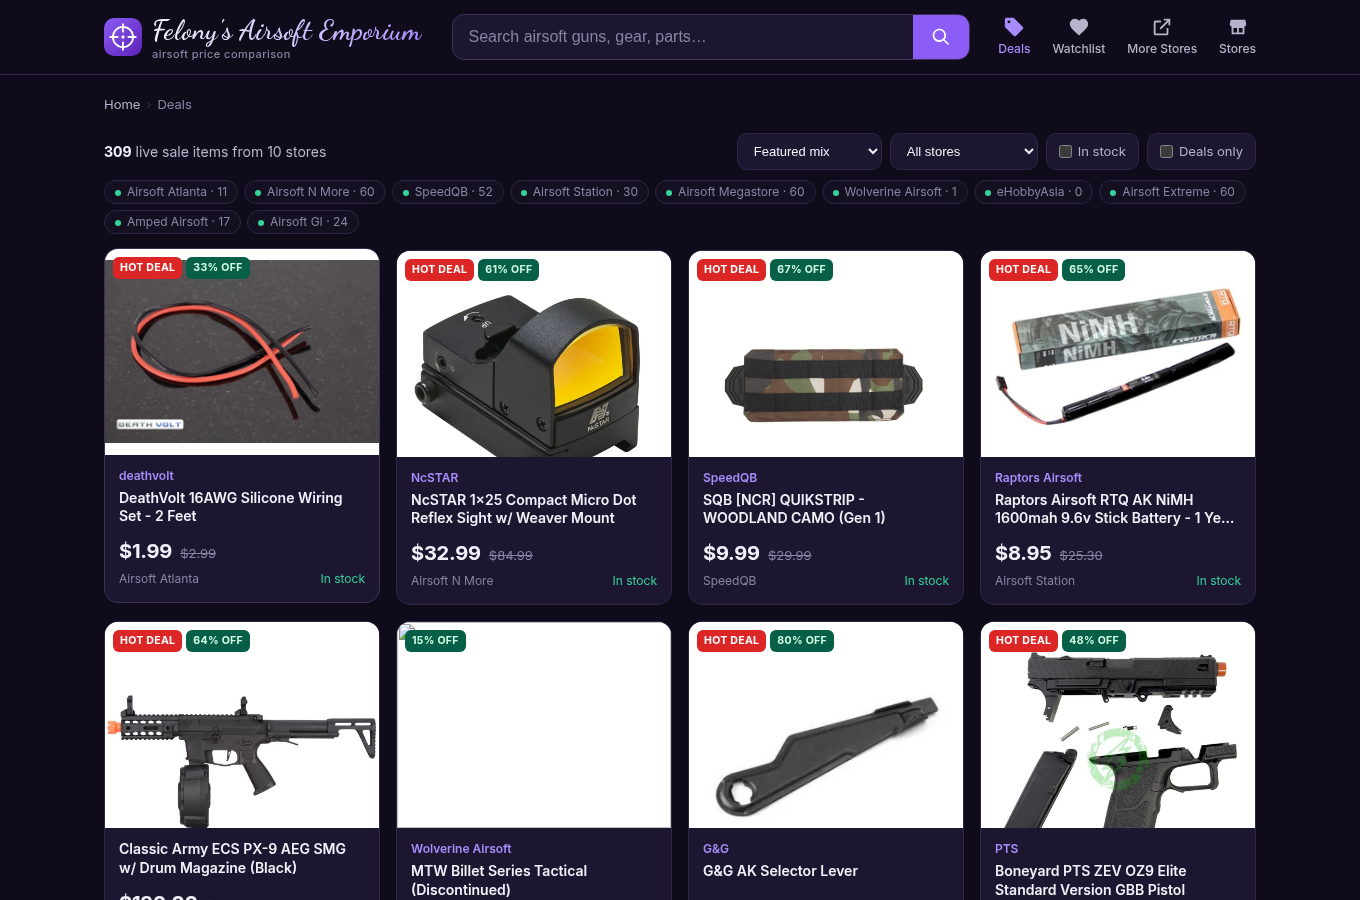
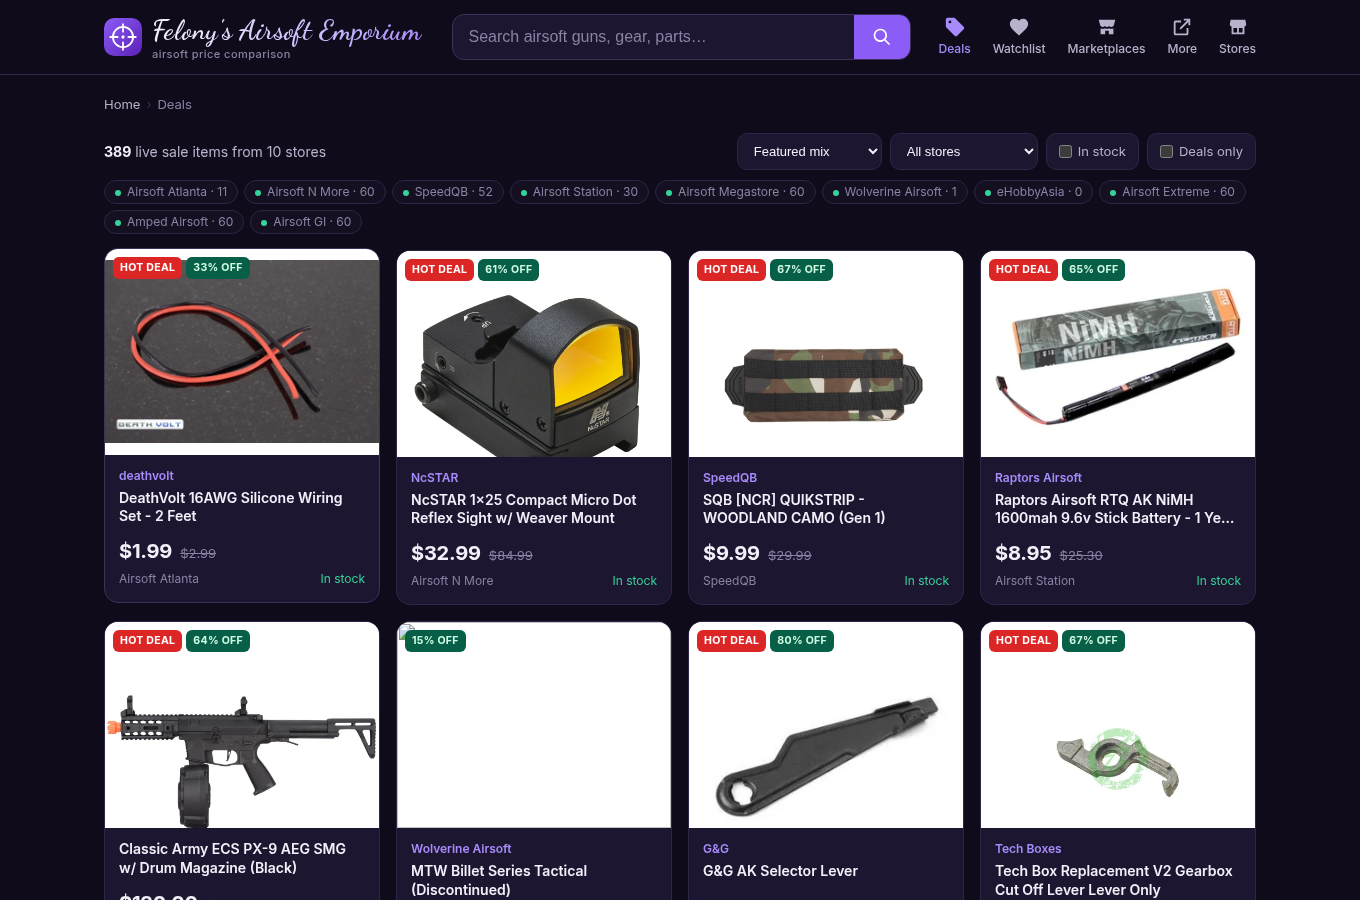
Add Marketplaces tab, separate used-listings search section, iOS bottom tab bar

diff --git a/public/app.js b/public/app.js
@@ -18,6 +18,12 @@ const STORE_INFO = {
   evike: { name: 'Evike.com', sub: 'California' },
   sniperas: { name: 'Sniper Airsoft', sub: 'Germany' },
   replicaairguns: { name: 'ReplicaAirguns', sub: 'Reviews' },
+  hopup: { name: 'HopUp', sub: 'Buy/sell app' },
+  ebay: { name: 'eBay Airsoft', sub: 'Auctions & BIN' },
+  gunbroker: { name: 'GunBroker', sub: 'Auctions' },
+  reddit: { name: 'r/airsoftmarket', sub: 'Reddit' },
+  fbmarket: { name: 'FB Marketplace', sub: 'Local' },
+  fbgroups: { name: 'FB Groups', sub: 'Buy/sell/trade' },
 };
 const wordmark = (id, name) => `<div class="wm wm-${esc(id)}">${esc(STORE_INFO[id]?.name || name)}<small>${esc(STORE_INFO[id]?.sub || '')}</small></div>`;
 
@@ -108,6 +114,8 @@ async function searchPage(q) {
     if (!S.search || S.search.query !== q) S.search = await api('/api/search?q=' + encodeURIComponent(q));
     const d = S.search, multi = d.groups.filter((g) => g.storeCount > 1).length, deals = d.groups.filter((g) => g.onSale).length;
     listView(d, { title: `<b>${d.groups.length}</b> products for <b>“${esc(q)}”</b> · ${multi} compared across stores · ${deals} deals`, crumb: [['Home', '#/'], [`Search “${q}”`]], defaultSort: 'relevance' });
+    app.insertAdjacentHTML('beforeend', `<section class="mkt-section" id="mkt"><div class="section-h"><h2>Used &amp; marketplace listings</h2><a href="#/marketplaces">About marketplaces →</a></div><p class="more-note">Kept separate from the new-retail comparison above. Prices from players and sellers vary by condition.</p><div id="mktBody"><div class="sk" style="height:90px"></div></div></section>`);
+    loadMarketplaceSection(q);
   } catch (e) { errorView(e); }
 }
 
@@ -182,7 +190,7 @@ async function homePage() {
   const chips = ['Tokyo Marui', 'Gas blowback', 'M4 AEG', 'Glock', 'Hi-Capa', 'Sniper rifle', 'Plate carrier', 'HPA', '0.28g BBs'];
   app.innerHTML = `<section class="hero"><h1>Find the <em>best price</em> on airsoft gear.</h1>
     <p>Felony&#39;s Airsoft Emporium checks 10 trusted airsoft retailers, matches the same product across stores, and flags real sales so you never overpay.</p>
-    <p class="hero-more"><a href="#/more">More stores we can't price-check →</a></p>
+    <p class="hero-more"><a href="#/marketplaces">Used gear marketplaces →</a> <span class="sep">·</span> <a href="#/more">More stores we can't price-check →</a></p>
     <div class="chips">${chips.map((c) => `<button class="chip" data-q="${esc(c)}">${esc(c)}</button>`).join('')}</div></section>
     <div class="section-h"><h2>Top deals right now</h2><a href="#/deals">See all deals →</a></div><div id="homeDeals">${skeletons(8)}</div>`;
   app.querySelectorAll('.chip').forEach((c) => c.addEventListener('click', () => (location.hash = '#/search?q=' + encodeURIComponent(c.dataset.q))));
@@ -219,6 +227,34 @@ async function storesPage() {
   } catch (e) { errorView(e); }
 }
 
+async function loadMarketplaceSection(q) {
+  try {
+    const m = await api('/api/marketplace-search?q=' + encodeURIComponent(q));
+    if (!$('#mktBody')) return;
+    const listings = m.listings.length ? `<div class="grid mkt-grid">${m.listings.map((l) => `<a class="pcard" href="${esc(l.url)}" target="_blank" rel="noopener noreferrer">
+        <div class="pimg">${l.image ? `<img loading="lazy" src="${esc(l.image)}" alt="">` : ''}<div class="tags">${l.condition ? `<span class="tag">${esc(l.condition.toUpperCase())}</span>` : ''}</div></div>
+        <div class="pbody"><div class="brandline">${esc(l.marketplace)} · ${esc(l.format)}</div><div class="ptitle">${esc(l.title)}</div>
+        <div class="pprice"><b>${money(l.price)}</b></div></div></a>`).join('')}</div>` : '';
+    $('#mktBody').innerHTML = listings + `<div class="mkt-links"><span>Search “${esc(q)}” on</span>${m.links.map((l) => `<a class="mkt-chip" href="${esc(l.url)}" target="_blank" rel="noopener noreferrer">${esc(l.name)} ↗</a>`).join('')}</div>`;
+  } catch (e) { if ($('#mktBody')) $('#mktBody').innerHTML = `<p class="more-note">${esc(e.message)}</p>`; }
+}
+
+async function marketplacesPage() {
+  $('#q').value = '';
+  app.innerHTML = crumbs([['Home', '#/'], ['Marketplaces']]) + skeletons(3);
+  try {
+    const d = await api('/api/marketplaces');
+    app.innerHTML = crumbs([['Home', '#/'], ['Marketplaces']]) + `
+      <div class="section-h" style="margin-top:0"><h2>Marketplaces</h2></div>
+      <p class="more-note">Used and third-party listings with sellers' own prices. They're kept out of the new-retail comparison. When you search, these show up in their own section with direct search links.</p>
+      <div class="stores">${d.marketplaces.map((m) => `<a class="scard more" href="${esc(m.url)}" target="_blank" rel="noopener noreferrer">
+        <div class="more-top">${wordmark(m.id, m.name)}<span class="ext" aria-hidden="true">↗</span></div>
+        <p class="domain">${esc(m.url.replace(/^https?:\/\/(www\.)?/, '').replace(/\/.*$/, ''))}${m.live ? ' <span class="live-pill">LIVE PRICES</span>' : ''}</p>
+        <p>${esc(m.note)}</p><p class="why">${esc(m.why)}</p></a>`).join('')}</div>
+      <p class="more-note" style="margin-top:18px">Buying used: check seller feedback, ask for a video of the gun firing, and pay with a protected method (PayPal Goods &amp; Services). Never pay with Friends &amp; Family.</p>`;
+  } catch (e) { errorView(e); }
+}
+
 async function moreStoresPage() {
   $('#q').value = '';
   app.innerHTML = crumbs([['Home', '#/'], ['More Stores']]) + skeletons(3);
@@ -248,6 +284,7 @@ function route() {
   if (h === '#/watchlist') return watchlistPage();
   if (h === '#/stores') return storesPage();
   if (h === '#/more') return moreStoresPage();
+  if (h === '#/marketplaces') return marketplacesPage();
   return homePage();
 }
 $('#searchForm').addEventListener('submit', (e) => { e.preventDefault(); const q = $('#q').value.trim(); if (q.length > 1) { $('#q').blur(); location.hash = '#/search?q=' + encodeURIComponent(q); } });

diff --git a/server/marketplaces.js b/server/marketplaces.js
@@ -1,0 +1,94 @@
+// Used / third-party airsoft marketplaces. These are kept apart from the new-retail price comparison.
+// None of them can be read automatically within their rules, so they're links (with a prefilled
+// search) unless an official API key is configured (eBay Browse API).
+const { UA } = require('./http');
+
+const enc = encodeURIComponent;
+const marketplaces = [
+  {
+    id: 'hopup', name: 'HopUp', url: 'https://www.hopupairsoft.com', note: 'The biggest US airsoft buy/sell app. New and used gear from players.',
+    search: (q) => `https://www.hopupairsoft.com/search?q=${enc(q)}`,
+    why: "Link only. HopUp's Terms of Use forbid crawling or scraping listings without written permission, even though robots.txt allows it.",
+  },
+  {
+    id: 'ebay', name: 'eBay Airsoft', url: 'https://www.ebay.com/sch/i.html?_sacat=31680', note: 'eBay airsoft category, new and used, auctions and Buy It Now.',
+    search: (q) => `https://www.ebay.com/sch/i.html?_nkw=${enc(q)}&_sacat=31680`,
+    why: "Link only unless an eBay Browse API key is configured. eBay blocks automated page requests (HTTP 403), and robots.txt disallows search pages. Its official API is the allowed route.",
+  },
+  {
+    id: 'gunbroker', name: 'GunBroker Airsoft', url: 'https://www.gunbroker.com', note: 'Auction site with an Airsoft category (Air Guns › Airsoft).',
+    search: (q) => `https://www.gunbroker.com/All/search?Keywords=${enc(q + ' airsoft')}`,
+    why: 'Link only. Every page, including robots.txt, sits behind a Cloudflare bot check (HTTP 403). GunBroker has an official API, but it needs an approved developer key.',
+  },
+  {
+    id: 'reddit', name: 'r/airsoftmarket', url: 'https://www.reddit.com/r/airsoftmarket/', note: 'Reddit buy/sell/trade community. Check seller feedback and use PayPal G&S.',
+    search: (q) => `https://www.reddit.com/r/airsoftmarket/search/?q=${enc(q)}&restrict_sr=1&sort=new`,
+    why: "Link only. Reddit's robots.txt disallows all crawling, and its Data API needs OAuth plus approval for commercial use.",
+  },
+  {
+    id: 'fbmarket', name: 'Facebook Marketplace', url: 'https://www.facebook.com/marketplace/', note: 'Local pickup listings. Needs a Facebook login.',
+    search: (q) => `https://www.facebook.com/marketplace/search/?query=${enc('airsoft ' + q)}`,
+    why: 'Link only. Requires a login and has no public listings API.',
+  },
+  {
+    id: 'fbgroups', name: 'Facebook airsoft groups', url: 'https://www.facebook.com/search/groups/?q=airsoft%20buy%20sell', note: 'Regional airsoft buy/sell/trade groups. Join one near you.',
+    search: () => 'https://www.facebook.com/search/groups/?q=airsoft%20buy%20sell',
+    why: 'Link only. Group posts need a login and there is no public API.',
+  },
+];
+
+// Optional: official eBay Browse API (free developer account at developer.ebay.com).
+// Set EBAY_CLIENT_ID and EBAY_CLIENT_SECRET on the server to show live eBay listings.
+let ebayToken = null;
+async function ebayAuth() {
+  if (ebayToken && ebayToken.exp > Date.now()) return ebayToken.value;
+  const basic = Buffer.from(`${process.env.EBAY_CLIENT_ID}:${process.env.EBAY_CLIENT_SECRET}`).toString('base64');
+  const r = await fetch('https://api.ebay.com/identity/v1/oauth2/token', {
+    method: 'POST',
+    headers: { Authorization: `Basic ${basic}`, 'Content-Type': 'application/x-www-form-urlencoded', 'User-Agent': UA },
+    body: 'grant_type=client_credentials&scope=' + enc('https://api.ebay.com/oauth/api_scope'),
+  });
+  if (!r.ok) throw new Error(`eBay auth HTTP ${r.status}`);
+  const j = await r.json();
+  ebayToken = { value: j.access_token, exp: Date.now() + (j.expires_in - 120) * 1000 };
+  return ebayToken.value;
+}
+const ebayCache = new Map();
+async function ebaySearch(q) {
+  const hit = ebayCache.get(q);
+  if (hit && hit.exp > Date.now()) return hit.val;
+  const token = await ebayAuth();
+  const r = await fetch(`https://api.ebay.com/buy/browse/v1/item_summary/search?q=${enc(q)}&category_ids=31680&limit=24`, {
+    headers: { Authorization: `Bearer ${token}`, 'X-EBAY-C-MARKETPLACE-ID': 'EBAY_US', 'User-Agent': UA },
+  });
+  if (!r.ok) throw new Error(`eBay search HTTP ${r.status}`);
+  const j = await r.json();
+  const val = (j.itemSummaries || []).map((it) => ({
+    marketplace: 'eBay', marketplaceId: 'ebay',
+    title: it.title,
+    price: it.price ? Number(it.price.value) : null,
+    currency: it.price?.currency || 'USD',
+    condition: it.condition || null,
+    format: (it.buyingOptions || []).includes('AUCTION') ? 'Auction' : 'Buy It Now',
+    image: it.image?.imageUrl || it.thumbnailImages?.[0]?.imageUrl || null,
+    url: it.itemAffiliateWebUrl || it.itemWebUrl,
+  })).filter((x) => x.price);
+  ebayCache.set(q, { val, exp: Date.now() + 10 * 60 * 1000 });
+  return val;
+}
+const ebayEnabled = () => !!(process.env.EBAY_CLIENT_ID && process.env.EBAY_CLIENT_SECRET);
+
+function list() {
+  return marketplaces.map(({ id, name, url, note, why }) => ({ id, name, url, note, why, live: id === 'ebay' && ebayEnabled() }));
+}
+
+async function searchMarketplaces(q) {
+  const links = marketplaces.map((m) => ({ id: m.id, name: m.name, url: m.search(q) }));
+  let listings = [], errors = [];
+  if (ebayEnabled()) {
+    try { listings = await ebaySearch(q); } catch (e) { errors.push({ id: 'ebay', error: String(e.message || e) }); }
+  }
+  return { query: q, links, listings, errors, liveSources: ebayEnabled() ? ['eBay'] : [] };
+}
+
+module.exports = { list, searchMarketplaces };

diff --git a/public/styles.css b/public/styles.css
@@ -160,3 +160,28 @@ select,.toggle{background:var(--card);color:var(--text);border:1px solid var(--l
 .wm-evike{color:#fb7185}.wm-sniperas{color:#93c5fd}.wm-replicaairguns{color:#d8b4fe}
 @media (max-width:430px){.actions{gap:14px}.action svg{width:23px;height:23px}}
 @media (max-width:360px){.actions{gap:10px}.action svg{width:21px;height:21px}}
+
+/* Marketplaces */
+.mkt-section{margin-top:34px;padding-top:6px;border-top:1px solid var(--line)}
+.mkt-links{display:flex;flex-wrap:wrap;gap:8px;align-items:center;margin-top:12px}
+.mkt-links span{color:var(--muted);font-size:13px;margin-right:2px}
+.mkt-chip{background:var(--card);border:1px solid var(--line2);color:var(--text);border-radius:999px;padding:7px 13px;font-size:13px;font-weight:600}
+.mkt-chip:hover{border-color:var(--accent);color:var(--accent2)}
+.mkt-grid{margin-bottom:6px}
+.live-pill{font-size:10px;font-weight:800;background:var(--green-bg);color:var(--green);border-radius:6px;padding:2px 6px;margin-left:6px}
+.hero-more .sep{color:var(--line2);margin:0 6px}
+.wm-hopup{color:#f97316}.wm-ebay{color:#60a5fa}.wm-gunbroker{color:#fbbf24}.wm-reddit{color:#fb923c}.wm-fbmarket,.wm-fbgroups{color:#818cf8}
+
+/* iPhone: header nav becomes an iOS-style bottom tab bar */
+@media (max-width:720px){
+  .actions{position:fixed;left:0;right:0;bottom:0;z-index:30;margin:0;display:grid;grid-template-columns:repeat(5,1fr);gap:0;
+    background:rgba(20,16,34,.94);backdrop-filter:saturate(1.4) blur(16px);-webkit-backdrop-filter:saturate(1.4) blur(16px);
+    border-top:1px solid var(--line);padding:7px 4px calc(7px + env(safe-area-inset-bottom))}
+  .action{gap:3px}.action span{display:block!important;font-size:10.5px;letter-spacing:.01em}
+  .action svg{width:23px!important;height:23px!important}
+  .count{right:calc(50% - 20px)}
+  body{padding-bottom:calc(64px + env(safe-area-inset-bottom))}
+  /* backdrop-filter would make the header the containing block for the fixed tab bar */
+  .header{backdrop-filter:none;-webkit-backdrop-filter:none;background:rgba(15,11,26,.98)}
+  .brand{flex:1}
+}

diff --git a/public/index.html b/public/index.html
@@ -33,7 +33,8 @@
       <nav class="actions">
         <a href="#/deals" class="action"><svg viewBox="0 0 24 24"><path d="M21.4 11.6 12.4 2.6A2 2 0 0 0 11 2H4a2 2 0 0 0-2 2v7c0 .53.21 1.04.59 1.41l9 9a2 2 0 0 0 2.82 0l7-7a2 2 0 0 0 0-2.82zM6.5 8A1.5 1.5 0 1 1 6.5 5a1.5 1.5 0 0 1 0 3z"/></svg><span>Deals</span></a>
         <a href="#/watchlist" class="action"><svg viewBox="0 0 24 24"><path d="M12 21.35 10.55 20C5.4 15.36 2 12.28 2 8.5A5.5 5.5 0 0 1 7.5 3c1.74 0 3.41.81 4.5 2.09A6 6 0 0 1 16.5 3 5.5 5.5 0 0 1 22 8.5c0 3.78-3.4 6.86-8.55 11.54z"/></svg><span>Watchlist</span><i id="watchCount" class="count hidden"></i></a>
-        <a href="#/more" class="action"><svg viewBox="0 0 24 24"><path d="M14 3h7v7h-2V6.41l-8.29 8.3-1.42-1.42L17.59 5H14V3zM5 5h6v2H5v12h12v-6h2v6a2 2 0 0 1-2 2H5a2 2 0 0 1-2-2V7a2 2 0 0 1 2-2z"/></svg><span>More Stores</span></a>
+        <a href="#/marketplaces" class="action"><svg viewBox="0 0 24 24"><path d="M3 4h18l-1.5 6.2A3 3 0 0 1 16.6 12a3 3 0 0 1-2.3-1.1A3 3 0 0 1 12 12a3 3 0 0 1-2.3-1.1A3 3 0 0 1 7.4 12a3 3 0 0 1-2.9-1.8zM5 13.6V20h5v-4h4v4h5v-6.4a4.9 4.9 0 0 1-2.4.4 5 5 0 0 1-2.3-.7A5 5 0 0 1 12 14a5 5 0 0 1-2.3-.7 5 5 0 0 1-2.3.7 4.9 4.9 0 0 1-2.4-.4z"/></svg><span>Marketplaces</span></a>
+        <a href="#/more" class="action"><svg viewBox="0 0 24 24"><path d="M14 3h7v7h-2V6.41l-8.29 8.3-1.42-1.42L17.59 5H14V3zM5 5h6v2H5v12h12v-6h2v6a2 2 0 0 1-2 2H5a2 2 0 0 1-2-2V7a2 2 0 0 1 2-2z"/></svg><span>More</span></a>
         <a href="#/stores" class="action"><svg viewBox="0 0 24 24"><path d="M4 4h16l1 5a3 3 0 0 1-2 2.83V20H5v-8.17A3 3 0 0 1 3 9zm3 9v5h4v-5zm6 0v5h4v-5z"/></svg><span>Stores</span></a>
       </nav>
     </div>

diff --git a/server/index.js b/server/index.js
@@ -2,6 +2,7 @@ const express = require('express');
 const path = require('path');
 const { stores, skipped, reviews } = require('./stores');
 const { enrich, groupProducts } = require('./deals');
+const marketplaces = require('./marketplaces');
 
 const app = express();
 app.use((req, res, next) => { res.set('Access-Control-Allow-Origin', '*'); next(); });
@@ -24,6 +25,13 @@ app.get('/api/stores', (req, res) => res.json({
   skipped,
   reviews,
 }));
+
+app.get('/api/marketplaces', (req, res) => res.json({ marketplaces: marketplaces.list() }));
+app.get('/api/marketplace-search', async (req, res) => {
+  const q = String(req.query.q || '').trim().slice(0, 80);
+  if (q.length < 2) return res.status(400).json({ error: 'Query too short' });
+  res.json(await marketplaces.searchMarketplaces(q));
+});
 
 app.get('/api/search', async (req, res) => {
   const q = String(req.query.q || '').trim().slice(0, 80);

diff --git a/public/sw.js b/public/sw.js
@@ -1,5 +1,5 @@
 // App-shell cache; API calls always go to the network so prices are never stale.
-const CACHE = 'airsoft-deals-v6';
+const CACHE = 'airsoft-deals-v7';
 const SHELL = ['/', '/index.html', '/styles.css', '/app.js', '/config.js', '/manifest.webmanifest', '/icons/icon.svg', '/icons/icon-192.png', '/fonts/DancingScript-latin.woff2'];
 self.addEventListener('install', (e) => { e.waitUntil(caches.open(CACHE).then((c) => c.addAll(SHELL))); self.skipWaiting(); });
 self.addEventListener('activate', (e) => { e.waitUntil(caches.keys().then((ks) => Promise.all(ks.filter((k) => k !== CACHE).map((k) => caches.delete(k))))); self.clients.claim(); });

diff --git a/README.md b/README.md
@@ -91,3 +91,26 @@ screenshots/       desktop-* and iphone-* UI captures
 
 ## Branding
 The header wordmark uses **Dancing Script** (SIL Open Font License 1.1). It's self-hosted at `public/fonts/` so it also works offline in the installed app. The license is in `public/fonts/OFL.txt`.
+
+## Marketplaces (used / third-party)
+
+The **Marketplaces** tab (`#/marketplaces`) and a separate "Used & marketplace listings" section under each search are kept apart from the new-retail price comparison.
+
+| Marketplace | Mode | Why |
+|---|---|---|
+| HopUp (hopupairsoft.com) | Link only | robots.txt allows crawling, but the Terms of Use forbid scraping/automated collection without written permission |
+| eBay airsoft (cat. 31680) | Link only, **live with free API key** | Pages return 403 to bots and robots.txt disallows search; the official Browse API is the compliant route |
+| GunBroker airsoft | Link only | Cloudflare 403 to automated requests; official API requires a developer key |
+| r/airsoftmarket | Link only | robots.txt disallows all crawling; Reddit API requires OAuth/approval |
+| Facebook Marketplace / groups | Link only | Login required |
+| Airsoft Classifieds | Dropped | airsoftclassifieds.com is a parked domain; .org did not respond |
+
+### Turning on live eBay listings
+Create a free eBay developer account (developer.ebay.com), make a Production keyset, then set these env vars on Render:
+
+```
+EBAY_CLIENT_ID=...       # App ID
+EBAY_CLIENT_SECRET=...   # Cert ID
+```
+
+The server uses the client-credentials OAuth flow and the Browse API (`item_summary/search`, category 31680), caching results for 10 minutes.
